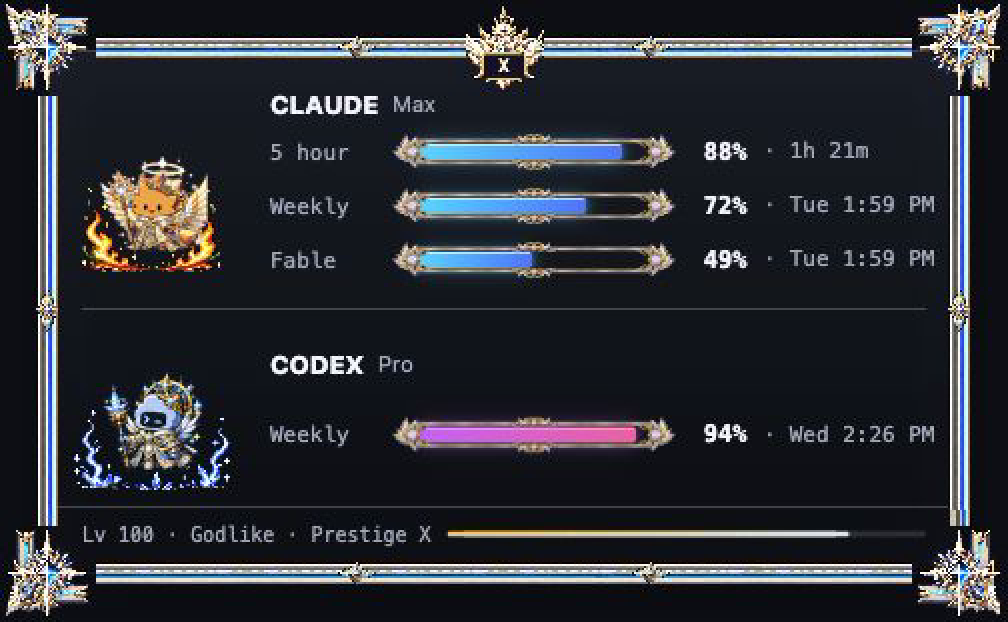
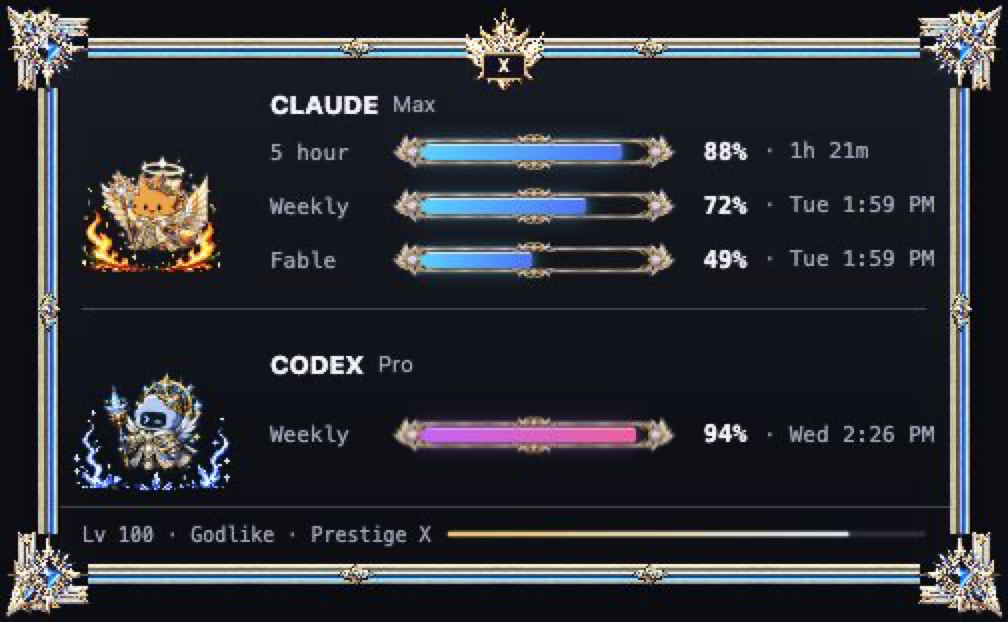
fix: connect generated frame corners

diff --git a/src/styles.test.ts b/src/styles.test.ts
@@ -242,6 +242,24 @@ describe("generated application perimeter", () => {
     expect(perimeterStyles).not.toMatch(/background-size:\s*100%\s+100%/);
   });
 
+  it("underlaps rails beneath transparent corner padding", () => {
+    const horizontal =
+      styles.match(
+        /\.frame-rail--top,\s*\.frame-rail--bottom\s*\{([^}]*)\}/s,
+      )?.[1] ?? "";
+    const vertical =
+      styles.match(
+        /\.frame-rail--right,\s*\.frame-rail--left\s*\{([^}]*)\}/s,
+      )?.[1] ?? "";
+    const corner = styles.match(/\.frame-corner\s*\{([^}]*)\}/s)?.[1] ?? "";
+
+    expect(horizontal).toMatch(/right:\s*44px/);
+    expect(horizontal).toMatch(/left:\s*44px/);
+    expect(vertical).toMatch(/top:\s*44px/);
+    expect(vertical).toMatch(/bottom:\s*44px/);
+    expect(corner).toMatch(/z-index:\s*1/);
+  });
+
   it("evenly spaces one ornament lane per side", () => {
     expect(styles).toMatch(
       /\.frame-ornaments--top,[^}]*\.frame-ornaments--bottom\s*\{[^}]*display:\s*grid[^}]*grid-auto-flow:\s*column[^}]*justify-content:\s*space-evenly/s,

diff --git a/src/styles.css b/src/styles.css
@@ -786,8 +786,8 @@ body {
 
 .frame-rail--top,
 .frame-rail--bottom {
-  right: 48px;
-  left: 48px;
+  right: 44px;
+  left: 44px;
   height: 16px;
   background-repeat: repeat-x;
   background-size: 64px 16px;
@@ -807,8 +807,8 @@ body {
 
 .frame-rail--right,
 .frame-rail--left {
-  top: 48px;
-  bottom: 48px;
+  top: 44px;
+  bottom: 44px;
   width: 16px;
   background-repeat: repeat-y;
   background-size: 16px 64px;
@@ -827,6 +827,7 @@ body {
 }
 
 .frame-corner {
+  z-index: 1;
   width: 48px;
   height: 48px;
   background-image:
